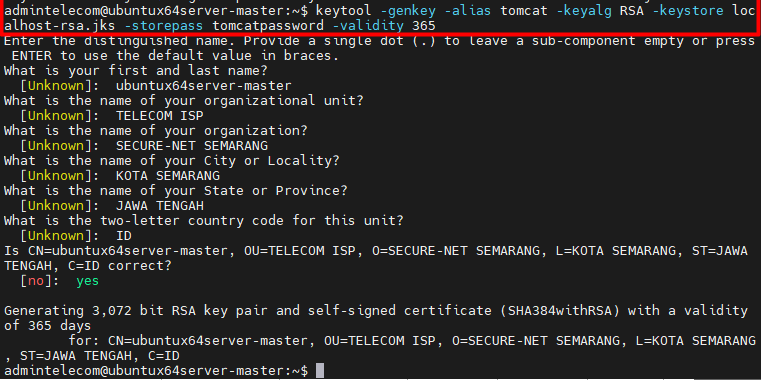
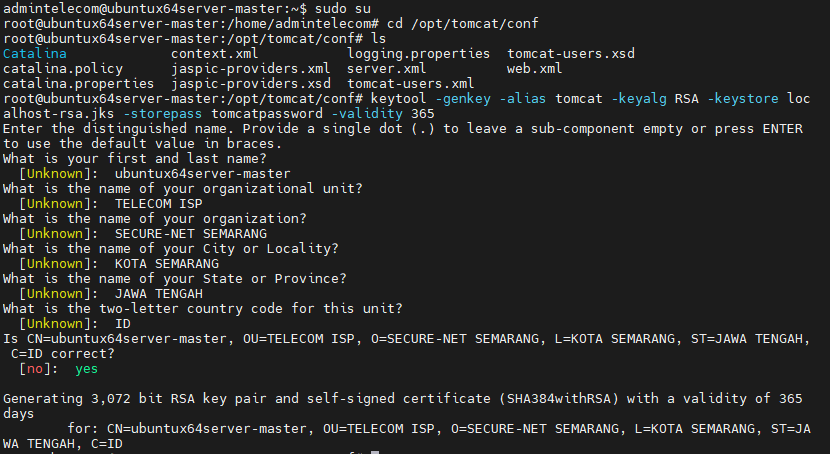
additional fix: integrate the documentation with the copyable commands

Changed region(s): [[0.0, 0.0, 1.0, 1.0]]

diff --git a/Java-Webapps-Simulation/1/Installing-ApacheTomcat_and_ApacheHTTP.md b/Java-Webapps-Simulation/1/Installing-ApacheTomcat_and_ApacheHTTP.md
@@ -13,6 +13,7 @@
 Adapted from [**Digital Ocean Community Tutorials**](https://www.digitalocean.com/community/tutorials/how-to-install-apache-tomcat-10-on-ubuntu-20-04)
 
 <b>A. Installation of JDK or OpenJDK (Java Development Kit) </b>
+<a id="01"></a>
 
 <a href="https://github.com/setiyadi-ben/Linux-Engineer-Applied-Practice/blob/main/Java-Webapps-Simulation/terminal-commands.md#01"><b>Commands are putting up here. If not loaded please refresh the browser.</b></a>
 
@@ -29,6 +30,7 @@ Adapted from [**Digital Ocean Community Tutorials**](https://www.digitalocean.co
 </p>
 
 <b>B. Installation of Apache Tomcat Webserver </b>
+<a id="02"></a>
 
 <a href="https://github.com/setiyadi-ben/Linux-Engineer-Applied-Practice/blob/main/Java-Webapps-Simulation/terminal-commands.md#02"><b>Commands are putting up here. If not loaded please refresh the browser.</b></a>
 
@@ -62,6 +64,7 @@ If in the future the downloadable file error you, can visit this main website to
 </p>
 
 <b>C. Configuring Admin Users</b>
+<a id="03"></a>
 
 <a href="https://github.com/setiyadi-ben/Linux-Engineer-Applied-Practice/blob/main/Java-Webapps-Simulation/terminal-commands.md#03"><b>Commands are putting up here. If not loaded please refresh the browser.</b></a>
 
@@ -99,6 +102,7 @@ Save and close the file, then repeat for Host Manager:
 </p>
 
 <b>D. Creating a systemd service </b>
+<a id="04"></a>
 
 <a href="https://github.com/setiyadi-ben/Linux-Engineer-Applied-Practice/blob/main/Java-Webapps-Simulation/terminal-commands.md#04"><b>Commands are putting up here. If not loaded please refresh the browser.</b></a>
 
@@ -128,10 +132,12 @@ sudo systemctl daemon-reload
 11. Enable Tomcat starting up with the system, run the following command:
 </p>
 
-~~~
+```
 sudo systemctl start tomcat
+```
+```
 sudo systemctl enable tomcat
-~~~
+```
 
 <p align="justify">
 12. Then, look at its status to confirm that it started successfully:
@@ -152,6 +158,9 @@ sudo systemctl status tomcat
 </p>
 
 <b>E. Installing Apache Tomcat HTTPS Certificate and Disable port 8080</b>
+<a id="05"></a>
+
+<a href="https://github.com/setiyadi-ben/Linux-Engineer-Applied-Practice/blob/main/Java-Webapps-Simulation/terminal-commands.md#05"><b>Commands are putting up here. If not loaded please refresh the browser.</b></a>
 
 <p align="justify">
 In this step what I'm gonna doing is to generate  ssl certificate and then installing that certificate into apache tomcat since https protocol only works with that certificate. After that, I change the current http port 8080 to https port on 8443. With that, port 8080 is being disabled and being redirected to port 8443. Why you might ask? The aim is to follow the current security standards which is use an encryption between server and client. 
@@ -164,7 +173,7 @@ In this step what I'm gonna doing is to generate  ssl certificate and then insta
 </p>
 
 <p align="justify">
-15. Update server.xml file with the new keystore file. I'm also added the following settings to block access on port 8080 and make a reference to redirecting port 8080 to port 8443.
+15. Update server.xml file with linking the new keystore file that have just generated. I'm also added the following settings to block access on port 8080 and make a reference to redirecting port 8080 to port 8443.
 
 <p align="center"><img src="/image-files/tomcat-cert-install-2sh.png"></p>
 
@@ -177,6 +186,8 @@ In this step what I'm gonna doing is to generate  ssl certificate and then insta
 
 <p align="center"><img src="/image-files/tomcat-cert-install-3sh.png"></p>
 
+In nano, find the ```"</web-app>"```, to find that press <b>```ctrl+w```</b> and then type that ```"</web-app>"``` and paste the following config below at the end of the file, just before the closing ```</web-app>``` tag.
+
 <p align="center"><img src="/image-files/tomcat-cert-install-3.png"></p>
 </p>
 <p align="center">Don't forget to type <b>ctrl + x then y and enter to save</b></p>
@@ -185,40 +196,47 @@ In this step what I'm gonna doing is to generate  ssl certificate and then insta
 17. Let's try to accesss <a href="http://192.168.129.129:8080"><b>http://192.168.129.129:8080</b></a> through your browser it will be automatically redirected to port 8443 like the following figure below. If it is says not secure don't worry about it because I'm using self-signed certificate.
 </p>
 
+<p align="justify">
+18. Restart the Tomcat service in order to make the changes applied.
+</p>
+
+```sh
+systemctl restart tomcat
+```
+
 <p align="center"><img src="/image-files/tomcat-cert-install-succes.png"></p>
-18. You can check the detailed certificate by typing <b>openssl s_client -connect 192.168.129.129:8443 -showcerts</b>
+19. You can check the detailed certificate by typing <b>openssl s_client -connect 192.168.129.129:8443 -showcerts</b>
 </p>
 
 ```
 openssl s_client -connect 192.168.129.129:8443 -showcerts
 ```
 
-</p>
-
 <b>F. Installation of Apache HTTP HTTPS Certificate and Disable port 80 </b>
+<a id="06"></a>
 
-<a href="https://github.com/setiyadi-ben/Linux-Engineer-Applied-Practice/blob/main/Java-Webapps-Simulation/terminal-commands.md#03"><b>Commands are putting up here. If not loaded please refresh the browser.</b></a>
+<a href="https://github.com/setiyadi-ben/Linux-Engineer-Applied-Practice/blob/main/Java-Webapps-Simulation/terminal-commands.md#06"><b>Commands are putting up here. If not loaded please refresh the browser.</b></a>
 
 <p align="justify">
-1.   If you already practicing the <a href="/Database-Replication-Simulation/readme.md"><b>Database Replication Simulation</b></a> you should have installed that when installing phpmyadmin. If you just started from this simulation you can follow step by step below.
+20. If you already practicing the <a href="/Database-Replication-Simulation/readme.md"><b>Database Replication Simulation</b></a> you should have installed that when installing phpmyadmin. If you just started from this simulation you can follow step by step below.
 </p>
 <!-- ![apache2 http](/image-files/install-apache2-1.png) -->
 <p align="center"><img src="/image-files/install-apache2-1.png"></p>
 
 <p align="justify">
-19. To enable ssl/tls mode we need to generate certificate using openssl library. in this simulation I'm going to start by preparing the <a href="https://www.hostinger.com/tutorials/fqdn" >fqdn</a> and self-signed certificate generate command. Why using self signed? Because I don't have any domain ready to use.
+21. To enable ssl/tls mode we need to generate certificate using openssl library. in this simulation I'm going to start by preparing the <a href="https://www.hostinger.com/tutorials/fqdn" >fqdn</a> and self-signed certificate generate command. Why using self signed? Because I don't have any domain ready to use.
 </p>
 <!-- ![apache http cert1](/image-files/install-apache2-cert-1.png) -->
 <p align="center"><img src="/image-files/install-apache2-cert-1.png"></p>
 
 <p align="justify">
-20.  This is the example of how to fill the certificate value.
+22.  This is the example of how to fill the certificate value.
 </p>
 <!-- ![apache http cert2](/image-files/install-apache2-cert-2.png) -->
 <p align="center"><img src="/image-files/install-apache2-cert-2.png"></p>
 
 <p align="justify">
-21.  After that navigate into <b>/etc/apache2/sites-available/website_ssl.conf</b> to configure virtual host for port 443.
+23.  After that navigate into <b>/etc/apache2/sites-available/website_ssl.conf</b> to configure virtual host for port 443.
 </p>
 <!-- ![apache http cert3](/image-files/install-apache2-cert-3.png) -->
 <p align="center"><img src="/image-files/install-apache2-cert-3.png"></p>
@@ -227,7 +245,15 @@ openssl s_client -connect 192.168.129.129:8443 -showcerts
 <p align="center">Don't forget to type <b>ctrl + x then y and enter to save</b></p>
 
 <p align="justify">
-22. To make sure configuration changes are running, I'm typing several commands listed below. Then I check the certificate by typing <b>openssl s_client -connect 192.168.129.129:443 -showcerts</b>
+24. Restart the Apache HTTPD service in order to make the changes applied.
+</p>
+
+```sh
+systemctl restart apache2
+```
+
+<p align="justify">
+25. To make sure configuration changes are running, I'm typing several commands listed below. Then I check the certificate by typing <b>openssl s_client -connect 192.168.129.129:443 -showcerts</b>
 </p>
 
 ```
@@ -237,13 +263,13 @@ openssl s_client -connect 192.168.129.129:443 -showcerts
 <p align="center"><img src="/image-files/install-apache2-cert-4.png"></p>
 
 <p align="justify">
-23.  Another way to identify the certificate was installed successfully is to access it directly from the web. 
+25.  Another way to identify the certificate was installed successfully is to access it directly from the web. 
 </p>
 <!-- ![](/image-files/install-apache2-cert-5.png) -->
 <p align="center"><img src="/image-files/install-apache2-cert-5.png"></p>
 
 <p align="justify">
-24. In the end, to redirect port 80 to 443 you can edit this configuration by accessing directory
+26. In the end, to redirect port 80 to 443 you can edit this configuration by accessing directory
 <b>/etc/apache2/sites-available/000_default.conf</b> 
 </p>
 
@@ -252,3 +278,11 @@ openssl s_client -connect 192.168.129.129:443 -showcerts
 <p align="center"><img src="/image-files/install-apache2-cert-7.png"></p>
 
 <p align="center">Don't forget to type <b>ctrl + x then y and enter to save</b></p>
+
+<p align="justify">
+27. Restart the Apache HTTPD service in order to make the changes applied.
+</p>
+
+```sh
+systemctl restart apache2
+```

diff --git a/Java-Webapps-Simulation/terminal-commands.md b/Java-Webapps-Simulation/terminal-commands.md
@@ -1,5 +1,5 @@
 ## JDK Installation
-### [back to Installation of Apache Tomcat and Apache HTTP Service](./1/Installing-ApacheTomcat_and_ApacheHTTP.md)
+### [back to Installation of Apache Tomcat and Apache HTTP Service](./1/Installing-ApacheTomcat_and_ApacheHTTP.md#01)
 <a id="01"></a>
 
 **1. Installation of JDK or OpenJDK (Java Development Kit)**
@@ -12,7 +12,7 @@ java -version
 ~~~
 
 ## Apache Tomcat Installation
-### [back to Installation of Apache Tomcat and Apache HTTP Service](./1/Installing-ApacheTomcat_and_ApacheHTTP.md)
+### [back to Installation of Apache Tomcat and Apache HTTP Service](./1/Installing-ApacheTomcat_and_ApacheHTTP.md#02)
 <a id="02"></a>
 
 **3. Downloading Tomcat from official website**
@@ -33,7 +33,7 @@ sudo useradd -m -d /opt/tomcat -U -s /bin/false tomcat
 ~~~
 
 ## Apache Tomcat Admin Configuration
-### [back to Installation of Apache Tomcat and Apache HTTP Service](./1/Installing-ApacheTomcat_and_ApacheHTTP.md)
+### [back to Installation of Apache Tomcat and Apache HTTP Service](./1/Installing-ApacheTomcat_and_ApacheHTTP.md#03)
 <a id="03"></a>
 
 **6. Tomcat users are defined in /opt/tomcat/conf/tomcat-users.xml. Open the file for editing with the following command:**
@@ -67,7 +67,7 @@ sudo nano /opt/tomcat/webapps/host-manager/META-INF/context.xml
 ~~~
 
 ## Apache Tomcat Systemd Configuration
-### [back to Installation of Apache Tomcat and Apache HTTP Service](./1/Installing-ApacheTomcat_and_ApacheHTTP.md)
+### [back to Installation of Apache Tomcat and Apache HTTP Service](./1/Installing-ApacheTomcat_and_ApacheHTTP.md#04)
 <a id="04"></a>
 
 **6. Verify the newly installed java version to put inside tomcat.service**
@@ -109,11 +109,11 @@ StandardError=inherit
 [Install]
 WantedBy=multi-user.target
 ~~~
-**8. Reload the systemd daemon so that it becomes aware of the new service:**
+**8. Reload the systemd daemon so that it becomes aware of the new service**
 ~~~
 sudo systemctl daemon-reload
 ~~~
-**9. Enable Tomcat starting up with the system, run the following command:**
+**9. Enable Tomcat starting up with the system, run the following command**
 ~~~
 sudo systemctl start tomcat
 sudo systemctl enable tomcat
@@ -123,22 +123,84 @@ sudo systemctl enable tomcat
 sudo systemctl status tomcat
 ~~~
 
-## Apache HTTP HTTPS Certificate Installation
-### [back to Installation of Apache Tomcat and Apace HTTP Service](./1/Installing-ApacheTomcat_and_ApacheHTTP.md)
+## Apache Tomcat HTTPS Certificate Installation
+### [back to Installation of Apache Tomcat and Apace HTTP Service](./1/Installing-ApacheTomcat_and_ApacheHTTP.md#05)
 <a id="05"></a>
 
-**10. Installing Apache HTTP Server**
+**11. Navigate to this directory /opt/tomcat/conf to generate SSL certificate**
+
+~~~sh
+sudo su
+cd /opt/tomcat/conf
+ls
+~~~
+**12. Update server.xml file with linking the keystore file that have just generated**
+~~~sh
+keytool -genkey -alias tomcat -keyalg RSA -keystore localhost-rsa.jks -storepass tomcatpassword -validity 365
+~~~
+
+~~~
+nano server.xml
+~~~
+
+~~~xml
+<!-- Disable HTTP by commenting out the HTTP connector or redirecting it -->
+<!--    <Connector port="8080" protocol="HTTP/1.1"
+               connectionTimeout="20000"
+               redirectPort="8443"
+               maxParameterCount="1000"
+               />
+-->
+
+<Connector port="8443" protocol="org.apache.coyote.http11.Http11NioProtocol"
+            maxThreads="150" SSLEnabled="true"
+            maxParameterCount="1000"
+               >
+    <UpgradeProtocol className="org.apache.coyote.http2.Http2Protocol" />
+    <SSLHostConfig>
+        <Certificate certificateKeystoreFile="conf/localhost-rsa.jks"
+                         certificateKeystorePassword="tomcatpassword" type="RSA" />
+    </SSLHostConfig>
+</Connector>
+
+<Connector port="8080" protocol="HTTP/1.1"
+            connectionTimeout="20000"
+            redirectPort="8443">
+    <UpgradeProtocol className="org.apache.coyote.http2.Http2Protocol"/>
+</Connector>
+~~~
+**13. Update web.xml file to Redirect HTTP Traffic to HTTPS**
+
+~~~
+nano web.xml
+~~~
+
+Add the following configuration at the end of the file, just before the closing ```"</web-app>"``` tag:
+
+~~~xml
+<security-constraint>
+    <web-resource-collection>
+        <web-resource-name>Protected Context</web-resource-name>
+        <url-pattern>/*</url-pattern>
+    </web-resource-collection>
+    <user-data-constraint>
+        <transport-guarantee>CONFIDENTIAL</transport-guarantee>
+    </user-data-constraint>
+</security-constraint>
+~~~
+
+
+## Apache HTTP HTTPS Certificate Installation
+### [back to Installation of Apache Tomcat and Apace HTTP Service](./1/Installing-ApacheTomcat_and_ApacheHTTP.md#06)
+<a id="06"></a>
+
+**14. Installing Apache HTTP Server**
 ~~~bash
 sudo apt install apache2 -y
 sudo systemctl status apache2
 ~~~
-**11. Check listening ports, firewall status and allow firewall**
-~~~bash
-netstat -tan
-sudo ufw status
-sudo ufw allow 'Apache Full'
-~~~
-**12. Make a directory for cert, preparing fqdn and generating cert**
+
+**15. Make a directory for cert, preparing fqdn and generating cert**
 ~~~bash
 sudo mkdir -p /etc/ssl/private
 hostname --fqdn
@@ -163,10 +225,25 @@ sudo nano /etc/apache2/sites-available/website_ssl.conf
     CustomLog ${APACHE_LOG_DIR}/access.log combined
 </VirtualHost>
 ~~~
-15. Apply configuration changes
+
+**15.  Apply configuration changes**
 ~~~bash
 sudo a2ensite website_ssl.conf
 sudo a2enmod ssl
-sudo systemctl restart apache2
-openssl s_client -connect 192.168.129.129:443 -showcerts
 ~~~
+
+**14. Configure virtual host for port 80**
+```sh
+nano /etc/apache2/sites-available/000-default.conf
+```
+
+```xml
+#ServerAdmin webmaster@localhost
+#DocumentRoot /var/www/html
+ServerAdmin support@secure-net.id
+Redirect permanent / https://192.168.129.129/
+```
+
+```
+sudo a2ensite 000-default.conf
+```
